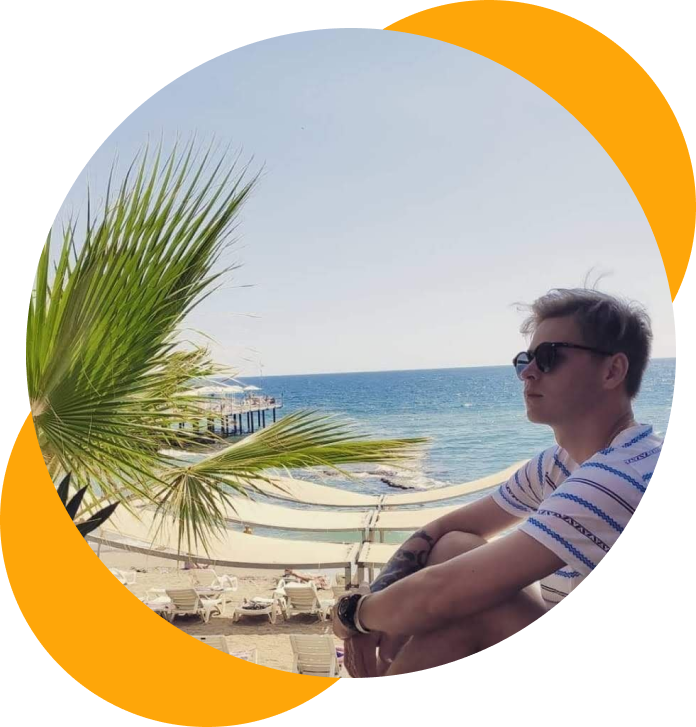
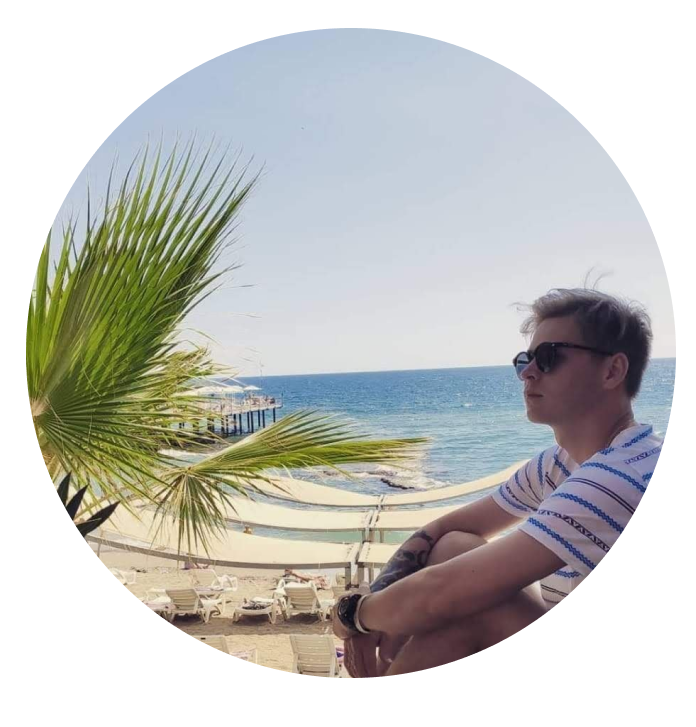
design fix

Changed region(s): [[0.0, 0.575, 0.4828, 1.0], [0.5431, 0.0, 1.0, 0.4237]]

diff --git a/static/portfolio/css/style.css b/static/portfolio/css/style.css
@@ -352,7 +352,8 @@ template {
 }
 
 html {
-  background: repeating-linear-gradient(90deg,#131212, #131212 40px, #131214 40px, #131214 120px);
+  background: #999D9E;
+  overflow-x: hidden;
 }
 
 html::-webkit-scrollbar {
@@ -368,6 +369,7 @@ html::-webkit-scrollbar {
   font-family: 'Rubik', sans-serif;
   font-size: 50px;
   color: white;
+  overflow-x: hidden;
 
 }
 
@@ -396,47 +398,38 @@ ul.nav_list li {
 }
 
 .nav_link:hover {
-  color: #FEA609;
+  color: #1c1d20;
 }
 
 section.welcome {
-  display: flex;
-  align-items: center;
-}
-
-div.welcome_text {
-  font-family: 'Rubik', sans-serif;
-  font-size: 64px;
-  color: white;
-  margin-left: 380px;
-  padding-right: 40pxv;
+ display: flex;
+ position: absolute;
+ text-align: center; 
 }
 
 div.me {
   background-image: url(../img/me.png);
   width: 696px;
   height: 727px;
-  margin-top: 90px;
-  margin-right: 326px;
+  margin-top: 30px;
+  position: absolute;
+  left: 1110px;
 }
 
-span.color_text {
-  color: #FEA609;
-}
 
 .job_text {
   font-family: 'Rubik', sans-serif;
-  font-size: 18px;
+  font-size: 44px;
   color: white;
   position: absolute;
-  margin-left: 380px;
-  margin-top: 170px;
+  left: 170px;
+  top: 270px;
 }
 
 .info_header {
   font-family: 'Rubik', sans-serif;
   font-size: 64px;
-  color: #FEA609;
+  color: white;
   margin-left: 380px;
   padding-right: 40pxv;
   padding-top: 60px;
@@ -445,9 +438,25 @@ span.color_text {
 #greeting-text{
   font-family: 'Rubik Bold', sans-serif;
   font-size: 120px;
-  color: #FEA609;
+  color: white;
   display: flex;
   justify-content: center; 
-  margin-top: 350px;  
+  margin-top: 350px;
 }
 
+#moving-text {
+  font-family: 'Rubik', sans-serif;
+  font-size: 300px;
+  color: white;
+  white-space: nowrap; /* Prevent text from wrapping */
+  animation: moveText 30s linear infinite;
+}
+
+@keyframes moveText {
+  0% {
+      transform: translateX(100%);
+  }
+  100% {
+      transform: translateX(-100%);
+  }
+}

diff --git a/portfolio/templates/portfolio/index.html b/portfolio/templates/portfolio/index.html
@@ -31,30 +31,28 @@
                 </div>
             </div>
         </header>
-        
+
         <section class="welcome">
-            <div class="welcome_text">
-                Hello world<span class="color_text">, </span><br>this is Ainur G<span class="color_text">.</span>
-            </div>
+            <div id="moving-text">
+                <p> Ainur Garipov - Ainur Garipov</p>
+            </div>   
             <div class="job_text">
-                AND I<span class="color_text">'</span>M SYSTEM ANALYST<span class="color_text">.</span>
+                SYSTEM ANALYST / DESIGNER /
+                DEVELOPER
             </div>
+
             <div class="me">
     
             </div>
         </section>
-    
-        <section class="info_section">
-            <div class="info_header">
-                About me
-            </div>
-            <div class="info_text">
-                
-            </div>
-        </section>
+
+
+
+        
+        
     </div>
     <script src="{% static 'portfolio/js/greeting.js' %}"></script>
-
+    <script src="{% static 'portfolio/js/movingtext.js' %}"></script>
 </body>
 
 </html>

diff --git a/static/portfolio/js/movingtext.js b/static/portfolio/js/movingtext.js
@@ -1,0 +1,21 @@
+document.addEventListener("DOMContentLoaded", function() {
+    let scrollingText = document.getElementById('moving-text');
+    let scrollDirection = 1; // 1 represents scrolling to the right
+
+    window.addEventListener('scroll', () => {
+        if (scrollingText) {
+            const scrollDistance = window.scrollY;
+            
+            // Update scrollDirection based on scroll distance
+            if (scrollDistance > 0 && scrollDirection === 1) {
+                // Change direction to the left when scrolling down
+                scrollDirection = -1;
+                scrollingText.style.animationDirection = "reverse";
+            } else if (scrollDistance === 0 && scrollDirection === -1) {
+                // Change direction to the right when scrolling up and reaching the top
+                scrollDirection = 1;
+                scrollingText.style.animationDirection = "normal";
+            }
+        }
+    });
+});

diff --git a/static/portfolio/js/greeting.js b/static/portfolio/js/greeting.js
@@ -20,7 +20,7 @@ const greetings = [
 ];
 
 const firstInterval = 300; // Interval for the first greeting in milliseconds
-const intervalBetween = 140; // Interval for greetings in between in milliseconds
+const intervalBetween = 100; // Interval for greetings in between in milliseconds
 const lastInterval = 400; // Interval for the last greeting in milliseconds
 
 let currentIndex = 0;
@@ -53,4 +53,4 @@ function showMainContent() {
 
 // Initial call to setGreeting
 setGreeting();
-setTimeout(showMainContent, 2600)
+setTimeout(showMainContent, 2000)
